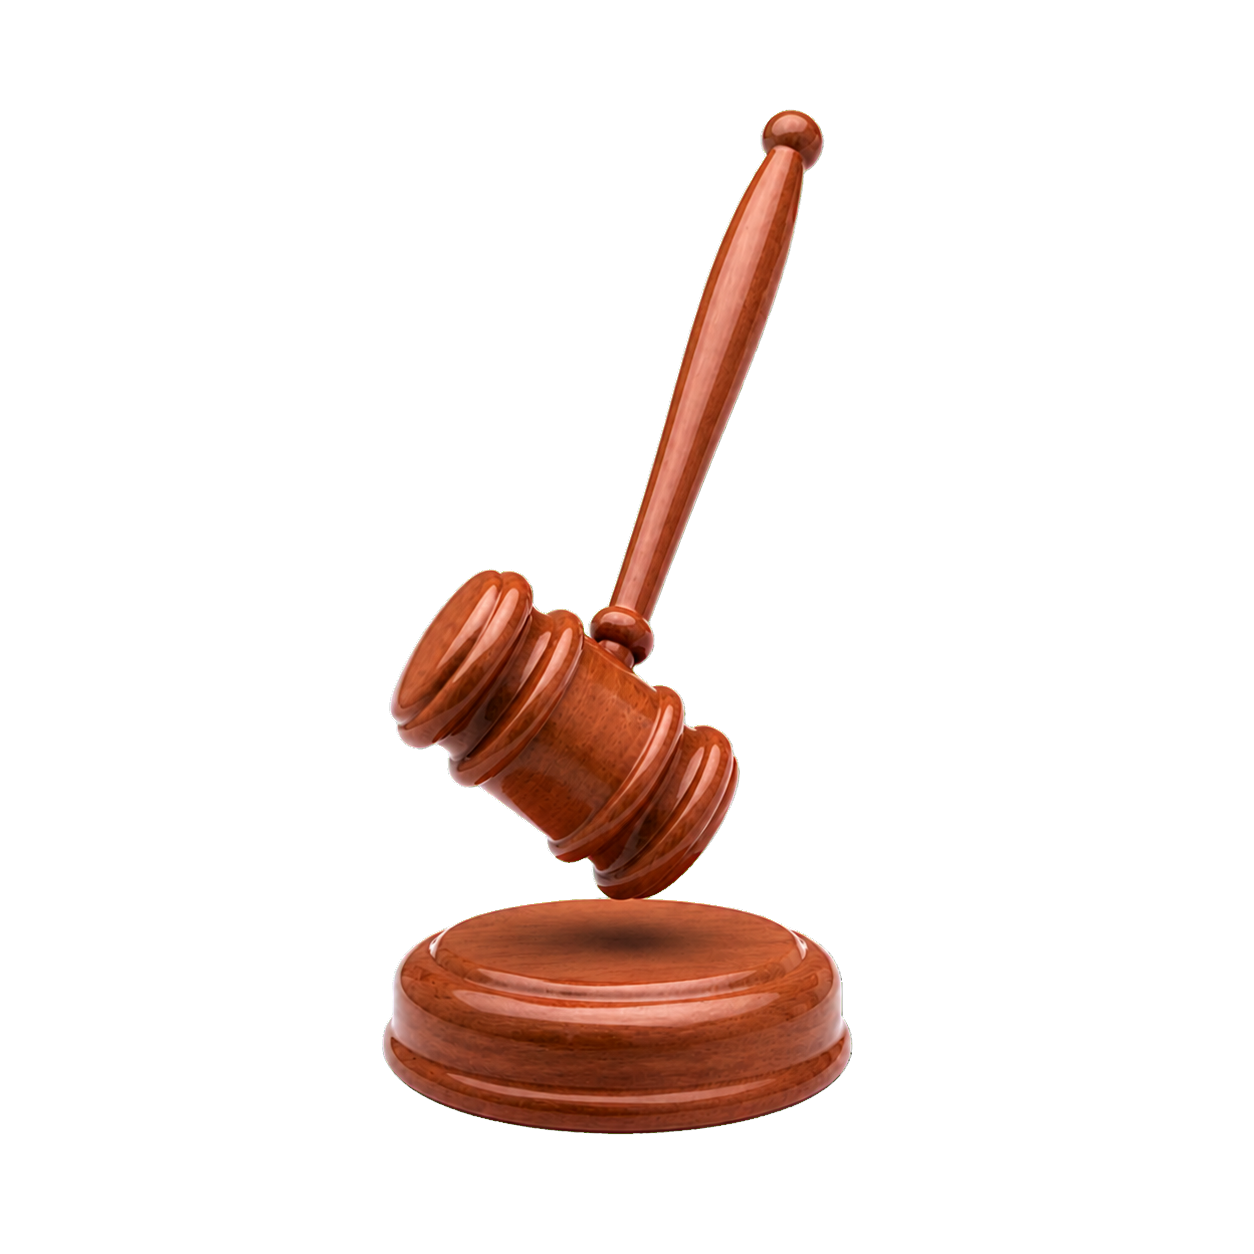
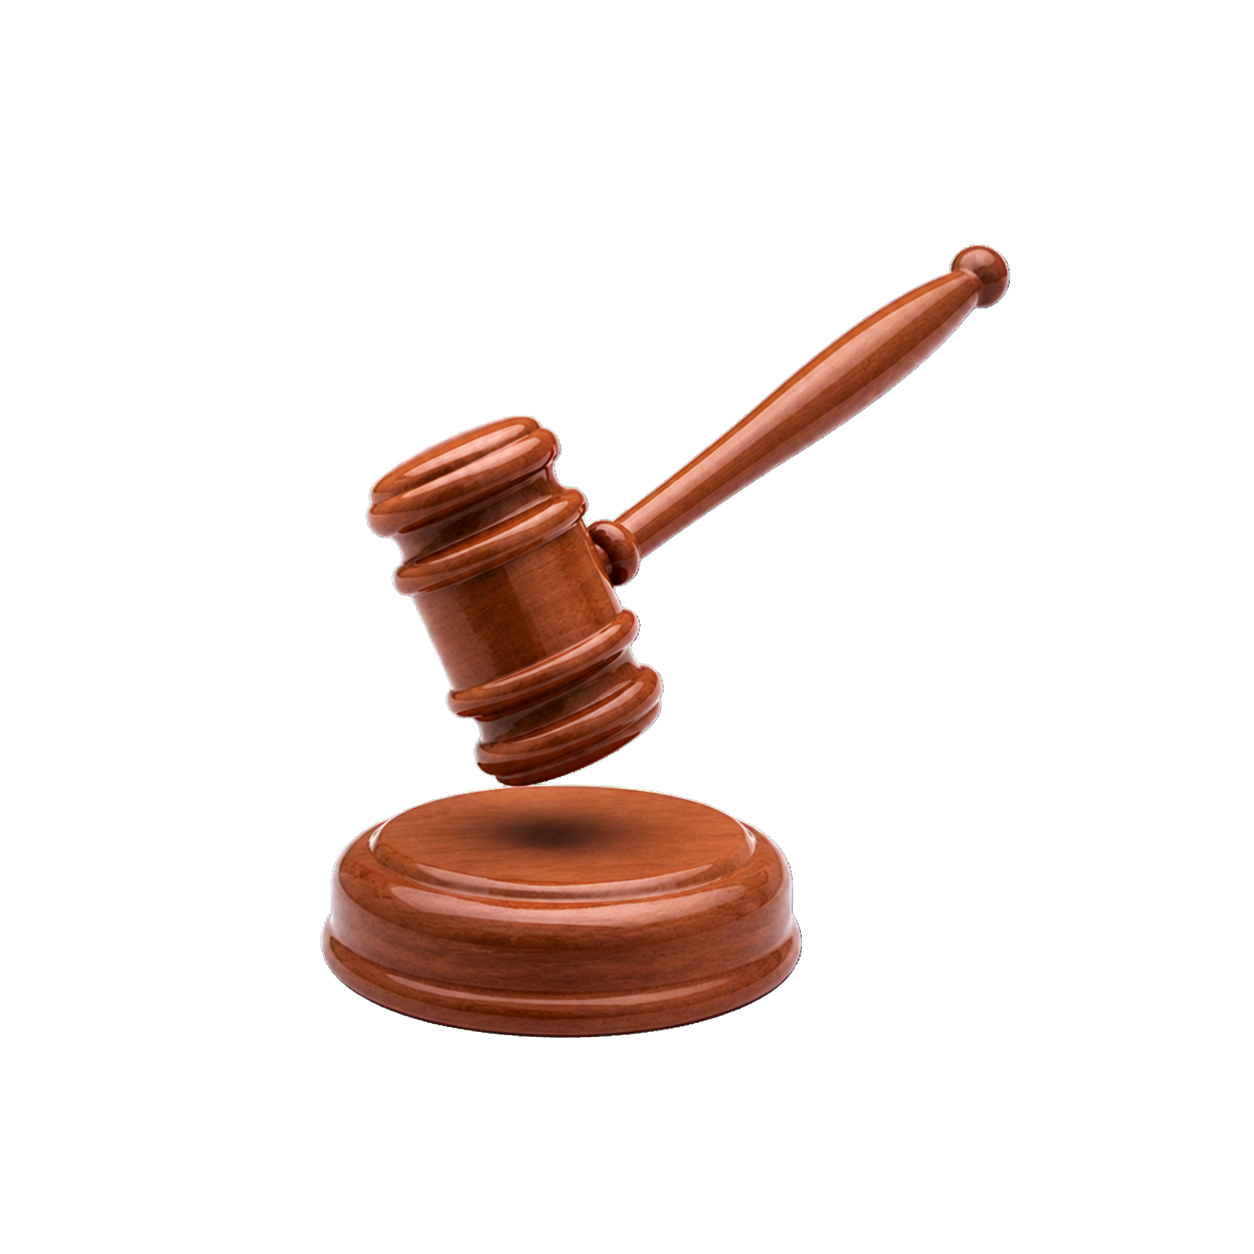
feat: select first gavel variant

Changed region(s): [[0.2488, 0.0622, 0.8086, 0.9019]]

diff --git a/prototype/design-qa.md b/prototype/design-qa.md
@@ -15,7 +15,7 @@
 
 ## Full-view comparison evidence
 
-The latest source annotation, final desktop/mobile captures, and final transparent gavel asset were opened together in one comparison input. The desktop landing now contains the entire input experience inside the 720 px viewport, removes all quick-example controls, and keeps the original brown workspace hierarchy. The emblem is smaller and centered, with both the gavel and sound block visible and a steep, approximately 60-degree handle angle.
+The latest source annotation, final desktop/mobile captures, and final transparent gavel asset were opened together in one comparison input. The desktop landing contains the entire input experience inside the 720 px viewport, removes all quick-example controls, and keeps the original brown workspace hierarchy. The emblem is smaller and centered, with both the gavel and sound block visible. The user selected the first generated, moderately raised composition over the steeper second option.
 
 ## Focused-region comparison evidence
 
@@ -26,7 +26,7 @@ The original-resolution asset and the rendered emblem were included in the same 
 - Fonts and typography: the Korean system/Pretendard hierarchy is preserved. The headline was reduced modestly while retaining its two-line desktop hierarchy and readable mobile wrapping.
 - Spacing and layout rhythm: the desktop top bar, hero, disclosure, role controls, textarea, footer, and privacy line fit within the fixed shell. Measured document scroll height equals viewport height (`720 px`), and no landing-page scroll is available.
 - Colors and visual tokens: existing walnut, caramel, ivory, and official-source green tokens remain unchanged.
-- Image quality and asset fidelity: a real generated RGBA gavel asset replaces the prior wide gavel. The sound block is complete, the handle is steep, and the asset remains sharp at its intended icon size.
+- Image quality and asset fidelity: a real generated RGBA gavel asset replaces the prior wide gavel. The sound block is complete, the user-approved moderate handle angle is preserved, and the asset remains sharp at its intended icon size.
 - Copy and content: quick-example labels and controls are absent. Legal-neutral copy, AI-use disclosure, verified-source count, `사실관계 유사도`, AI summary labeling, and official-source reminder remain intact.
 - Accessibility and interaction: role buttons, labeled textarea, attachment input, and submit control remain semantic and keyboard reachable. Mobile retains normal scrolling and fixed bottom navigation.
 
@@ -50,14 +50,14 @@ The original-resolution asset and the rendered emblem were included in the same 
 
 - Pass 1 finding `[P2]`: the desktop document itself did not scroll, but the composer bottom extended about 53 px beyond the application shell and was clipped. Fix: changed the fixed five-row textarea from content-derived height to an explicit compact 70 px height.
 - Pass 2 evidence: application shell bottom measured `696 px`, composer bottom `696.44 px` (subpixel border rounding), privacy notice bottom `681.44 px`, document scroll height `720 px`, and viewport height `720 px`. All controls are visible and there is no vertical landing scroll.
-- Asset iteration: the first regenerated gavel still read near 35–40 degrees. It was regenerated with a stricter steep-angle constraint; the final asset visibly approaches the requested 60-degree orientation while keeping the sound block horizontal.
+- Asset iteration: two sound-block variants were generated. After comparison, the user approved the first variant with the moderately raised handle, so that version is the final asset.
 
 ## Implementation checklist
 
 - [x] Remove quick examples from component code and CSS.
 - [x] Fit desktop landing inside a fixed, non-scrolling application shell.
 - [x] Keep mobile scrolling available.
-- [x] Replace the hero asset with a smaller centered gavel plus sound block at a steep angle.
+- [x] Replace the hero asset with the user-approved first gavel-plus-sound-block variant.
 - [x] Verify results flow, official source link, AI labeling, console state, desktop, and mobile.
 
 final result: passed

diff --git a/prototype/AGENTS.md b/prototype/AGENTS.md
@@ -6,6 +6,6 @@ Before making substantial visual changes, use the Product Design plugin's `get-c
 
 When implementing from a selected generated mock, treat that image as the source of truth for layout, component anatomy, density, spacing, color, typography, visible content, and hierarchy.
 
-The approved visual direction is a calm Korean legal-AI workspace: white rounded application shell on a warm ivory-gray background, slim left navigation, compact first-viewport-efficient spacing, black typography, and restrained walnut/caramel brown accents. On desktop, the landing view stays fixed inside the application shell without page scrolling; mobile may scroll normally. Do not show quick-example controls. The hero emblem uses a small, centered wooden gavel and complete sound block, raised at roughly 60 degrees inside a warm brown circular medallion. The product must say `사실관계 유사도`, never legal-outcome or complaint-success probability. Show a human-readable AI-use notice before submission and label every AI-authored precedent summary with `AI 생성 요약` plus an official-source reminder. Never display a precedent unless its case number, court, date, source anchors, and official law.go.kr URL are present in the verified local dataset.
+The approved visual direction is a calm Korean legal-AI workspace: white rounded application shell on a warm ivory-gray background, slim left navigation, compact first-viewport-efficient spacing, black typography, and restrained walnut/caramel brown accents. On desktop, the landing view stays fixed inside the application shell without page scrolling; mobile may scroll normally. Do not show quick-example controls. The hero emblem uses the user-approved first generated asset: a small, centered wooden gavel and complete sound block at a moderately raised angle inside a warm brown circular medallion. The product must say `사실관계 유사도`, never legal-outcome or complaint-success probability. Show a human-readable AI-use notice before submission and label every AI-authored precedent summary with `AI 생성 요약` plus an official-source reminder. Never display a precedent unless its case number, court, date, source anchors, and official law.go.kr URL are present in the verified local dataset.
 
 Build app UI in `src/`. Keep `.openai/hosting.json`, `worker/index.js`, `scripts/prepare-sites-build.mjs`, and `tests/sites-worker.test.mjs` intact so the same local prototype can be handed to Sites. Before a Sites handoff, run `npm run build` and `npm run test:sites`; the build must leave `dist/client/index.html`, `dist/server/index.js`, and `dist/.openai/hosting.json`.
